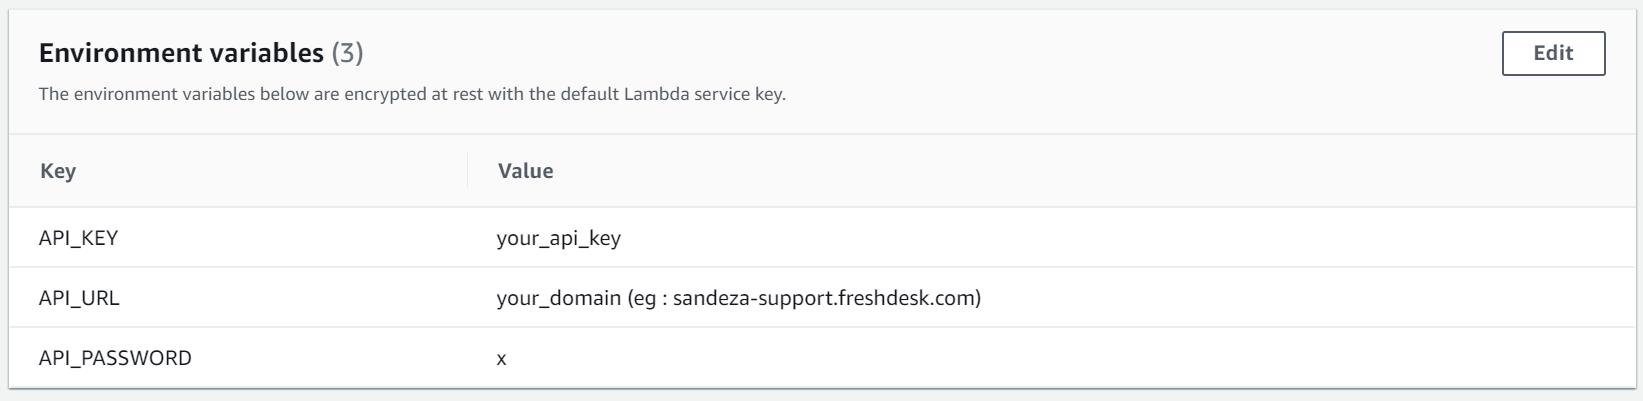
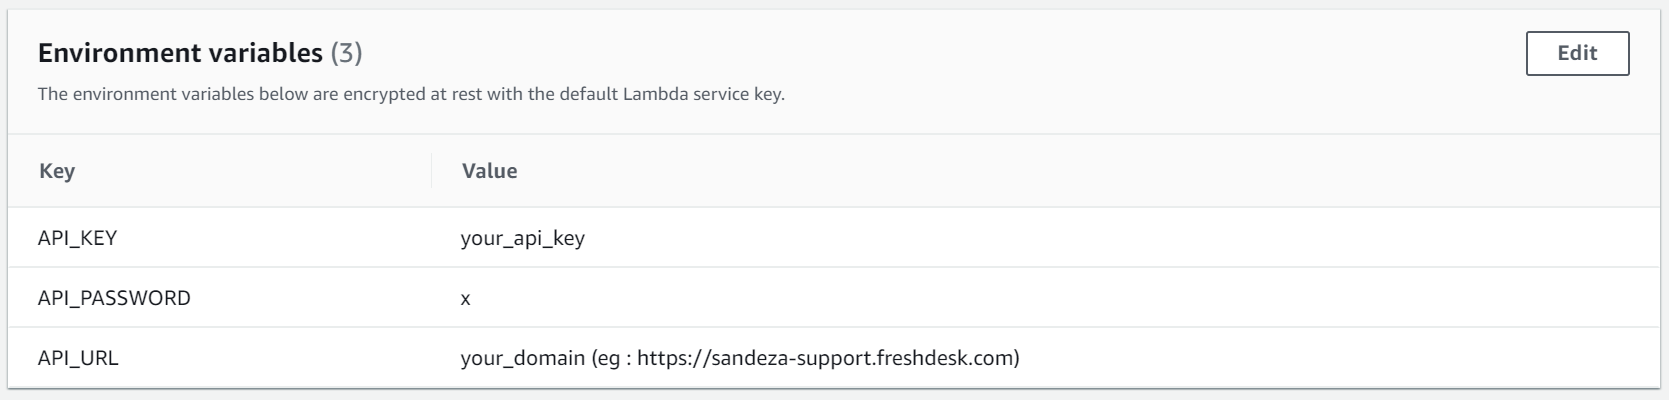
Updated steps to add environment variables

diff --git a/connectors/initialSetup.md b/connectors/initialSetup.md
@@ -40,7 +40,7 @@ Now the layer was added to lambda as shown below
 
 Add the environment variables as shown in below image
 
-> Note : Don't include `https://` in API_URL
+> Note : Include `https://` in beginning and don't include `/` at last
 
 ![env_variables](images/env_variables.png)
 
